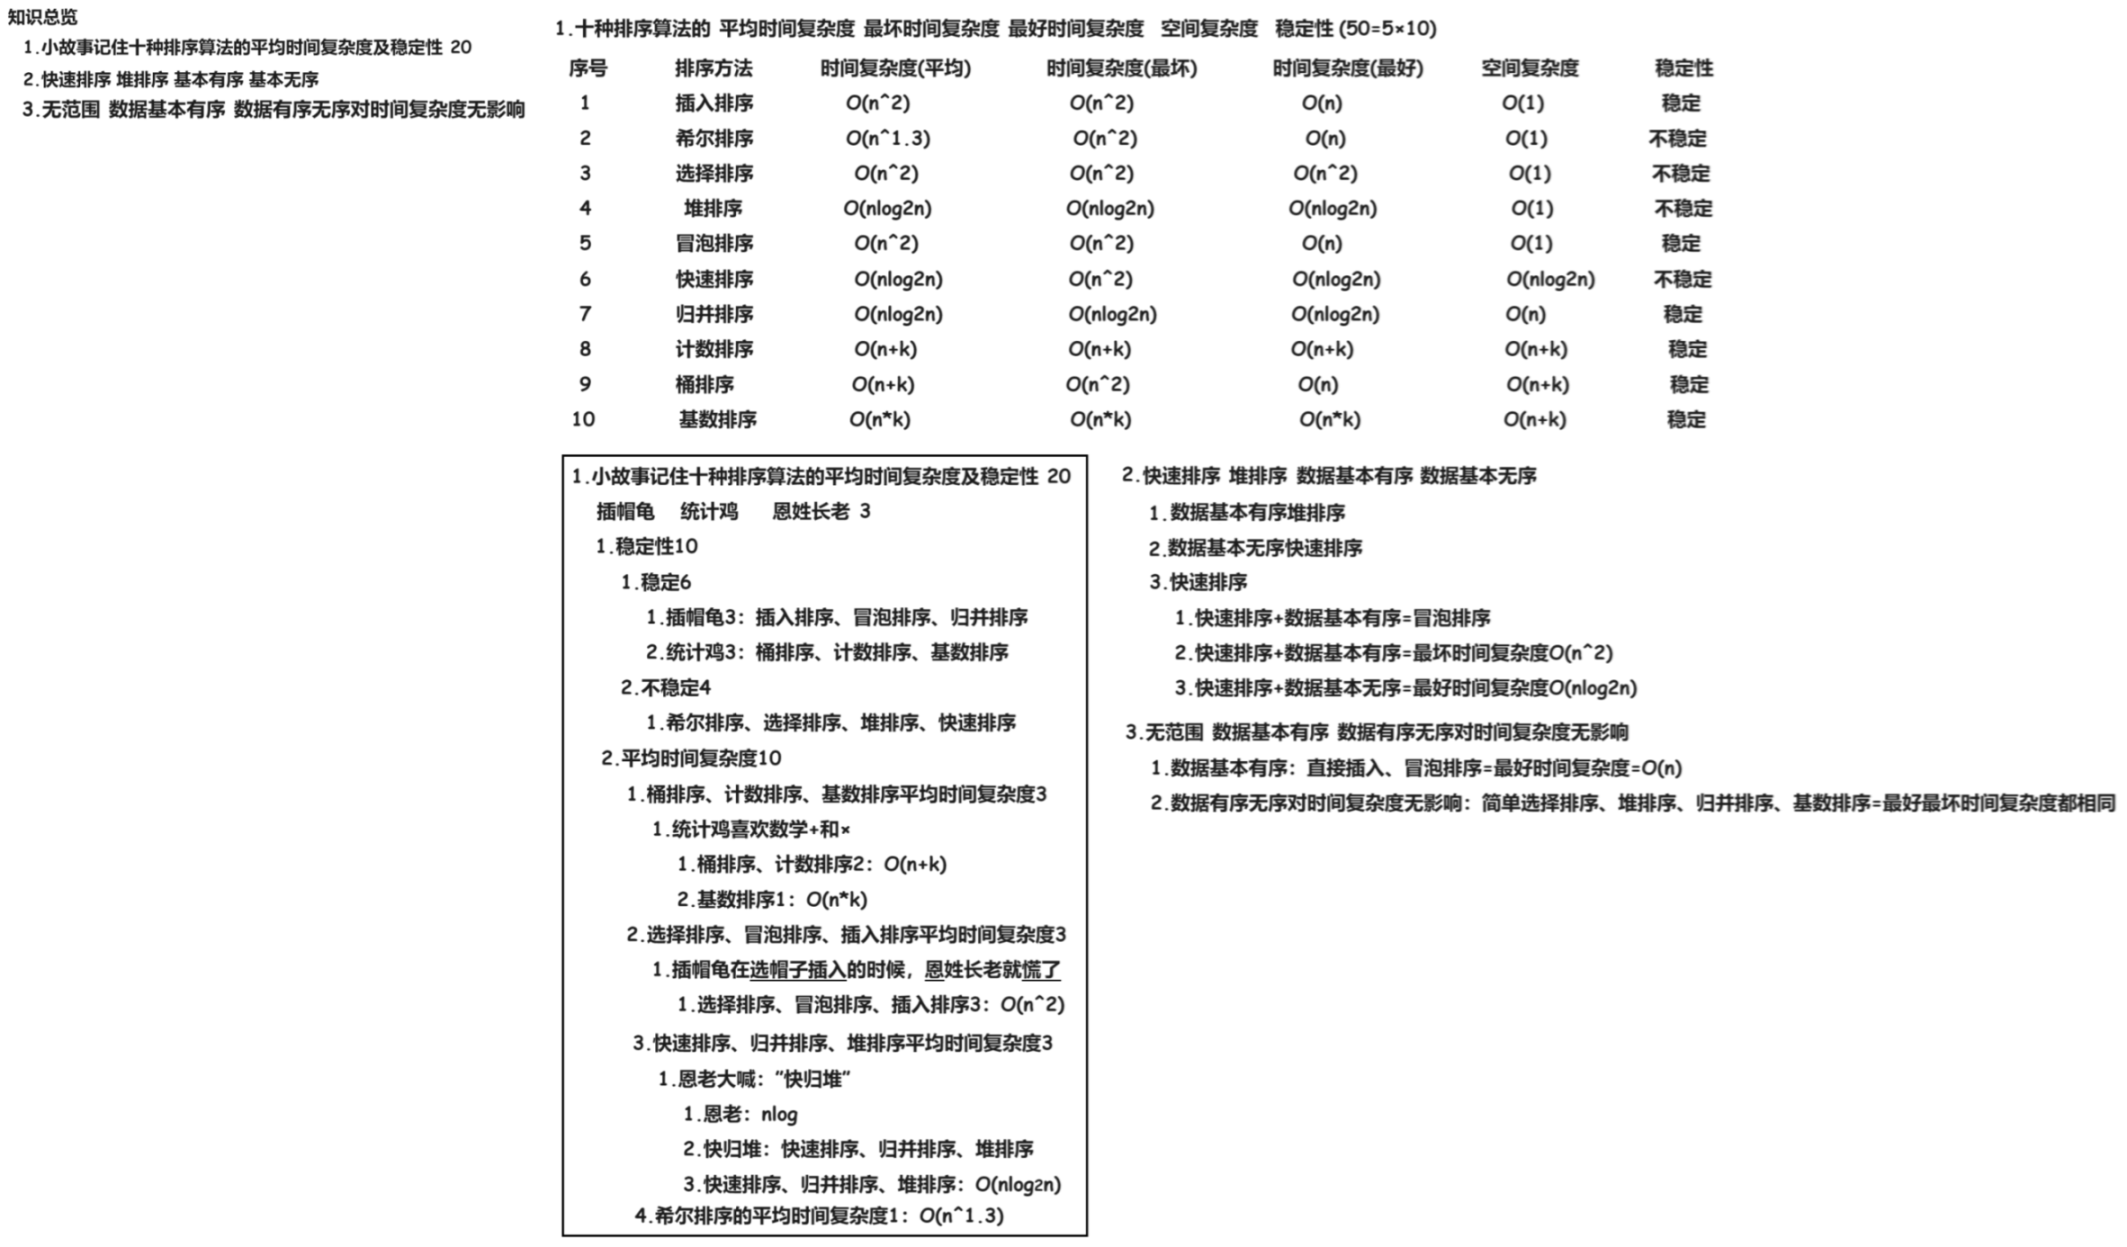
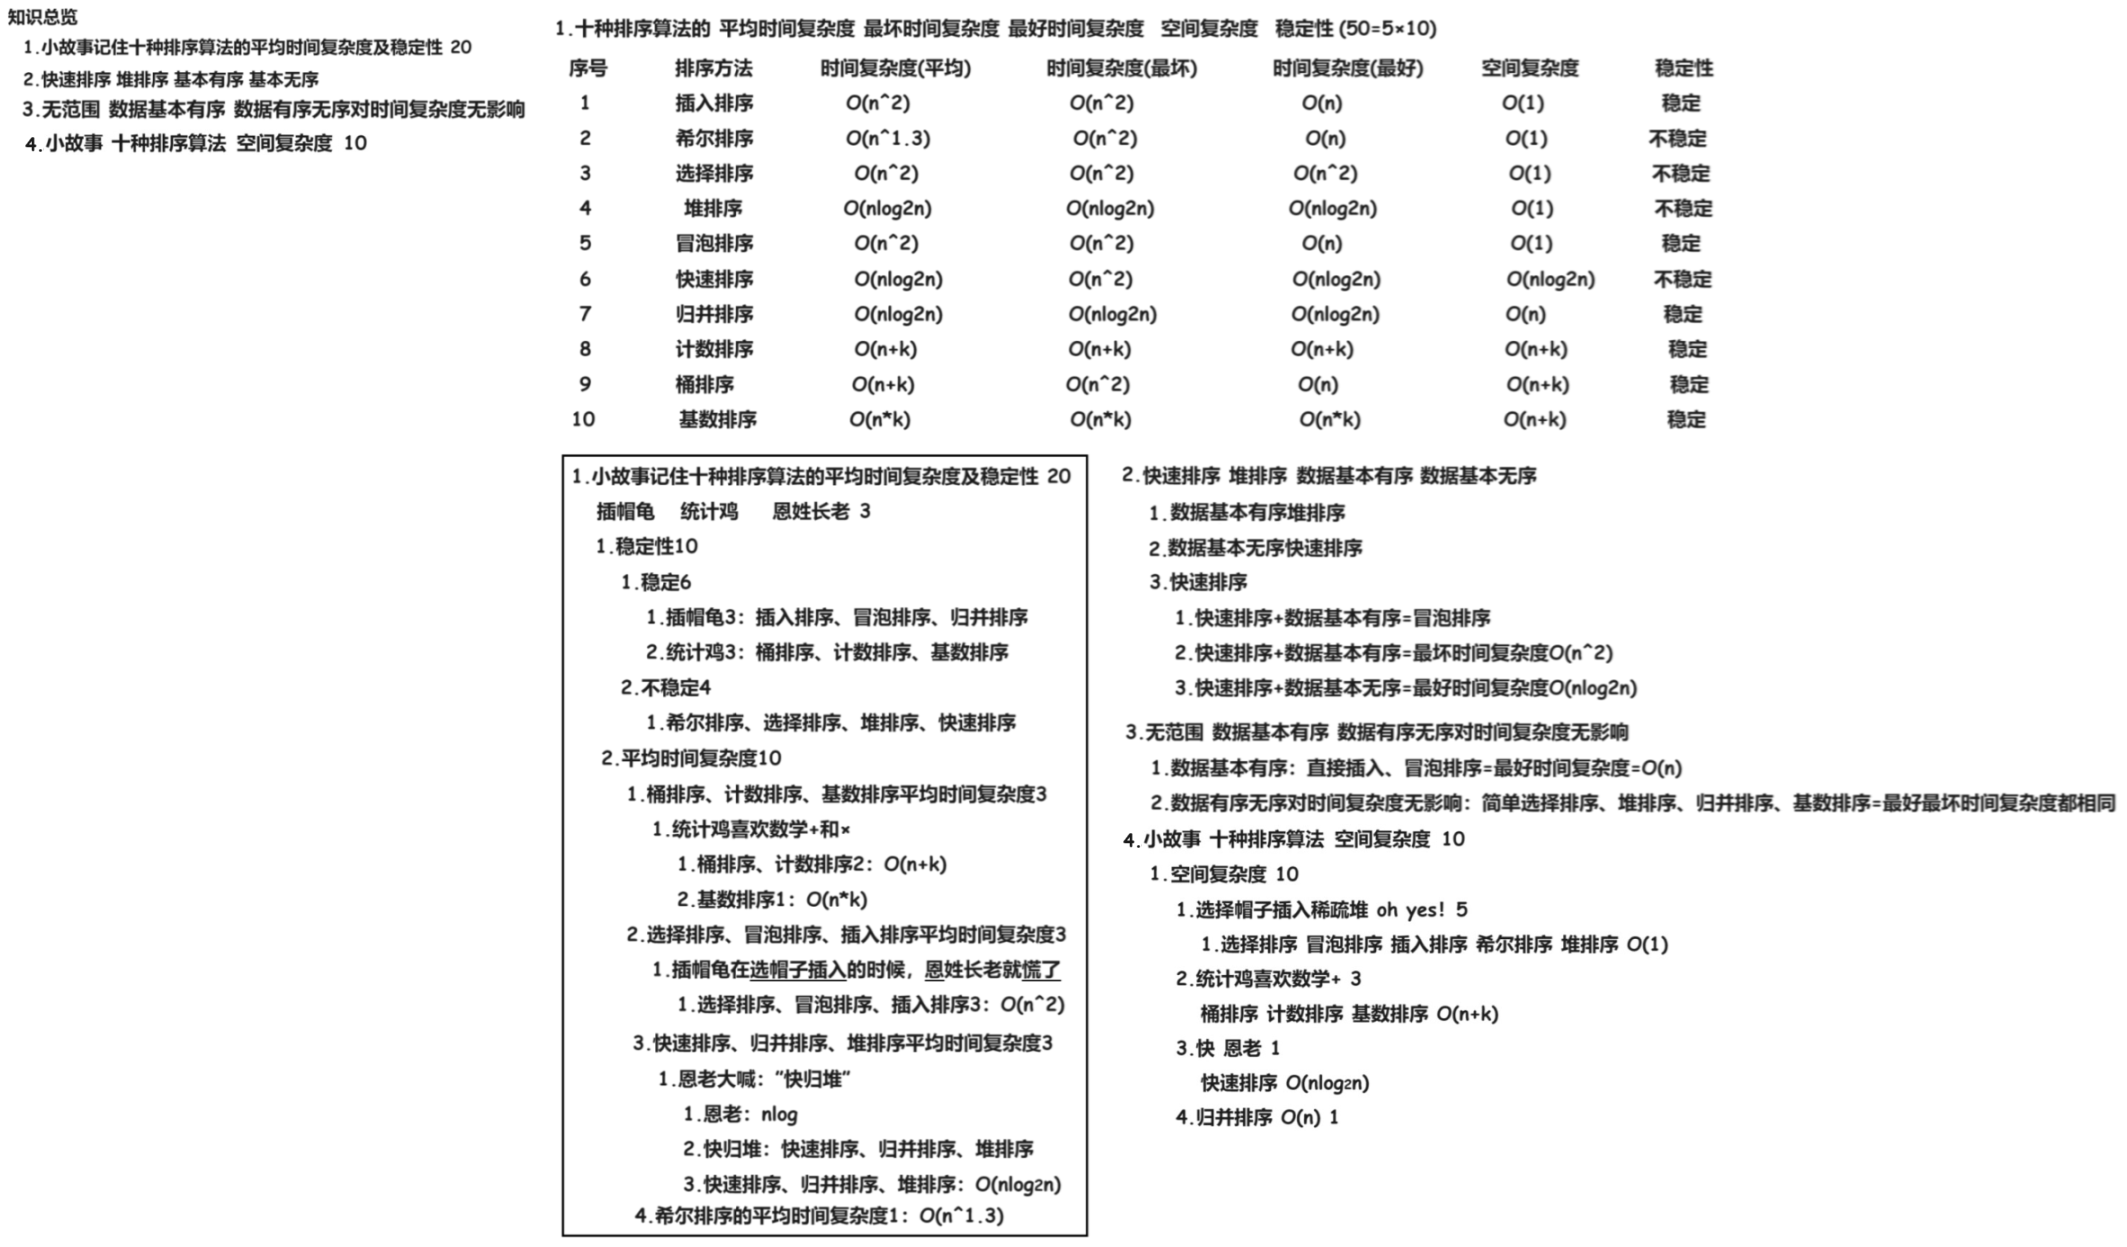
240313

Changed region(s): [[0.5275, 0.6399, 0.7757, 0.9142], [0.0, 0.0914, 0.1551, 0.1219]]

diff --git a/02 DS/01 题集/01 820/01 18 8+5=13/01 小题 8/01 填空题 6/02 填空题02 快速排序 堆排序 数据基本有序 数据基本无序 240313/02 Doc.md b/02 DS/01 题集/01 820/01 18 8+5=13/01 小题 8/01 填空题 6/02 填空题02 快速排序 堆排序 数据基本有序 数据基本无序 240313/02 Doc.md
@@ -1,6 +1,6 @@
 # 00 背诵
 
-<img src="https://cvp.oss-cn-shanghai.aliyuncs.com/picgo/202403131611823.png" alt="image-20240313161150403" style="zoom:50%;" />
+<img src="https://cvp.oss-cn-shanghai.aliyuncs.com/picgo/202403131618717.png" alt="image-20240313161808232" style="zoom:50%;" />
 
 
 

diff --git a/02 DS/01 题集/01 820/01 18 8+5=13/01 小题 8/01 填空题 6/04 填空题04  快速排序 堆排序 简单选择排序 冒泡排序 空间复杂度 240313/02 Doc.md b/02 DS/01 题集/01 820/01 18 8+5=13/01 小题 8/01 填空题 6/04 填空题04  快速排序 堆排序 简单选择排序 冒泡排序 空间复杂度 240313/02 Doc.md
@@ -1,6 +1,6 @@
 # 00 背诵
 
-<img src="https://cvp.oss-cn-shanghai.aliyuncs.com/picgo/202402271053206.png" alt="image-20240227105315982" style="zoom:50%;" />
+<img src="https://cvp.oss-cn-shanghai.aliyuncs.com/picgo/202403131618717.png" style="zoom:50%;" />
 
 
 
